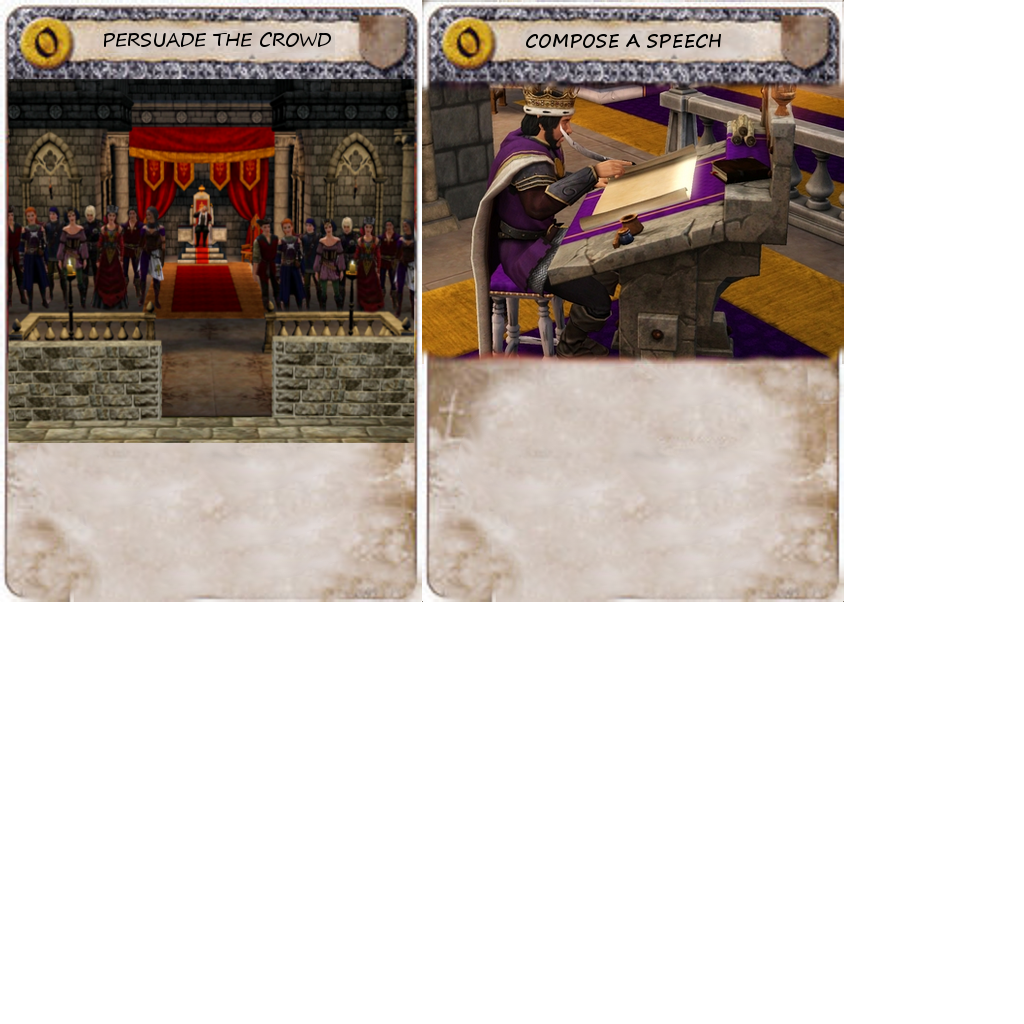
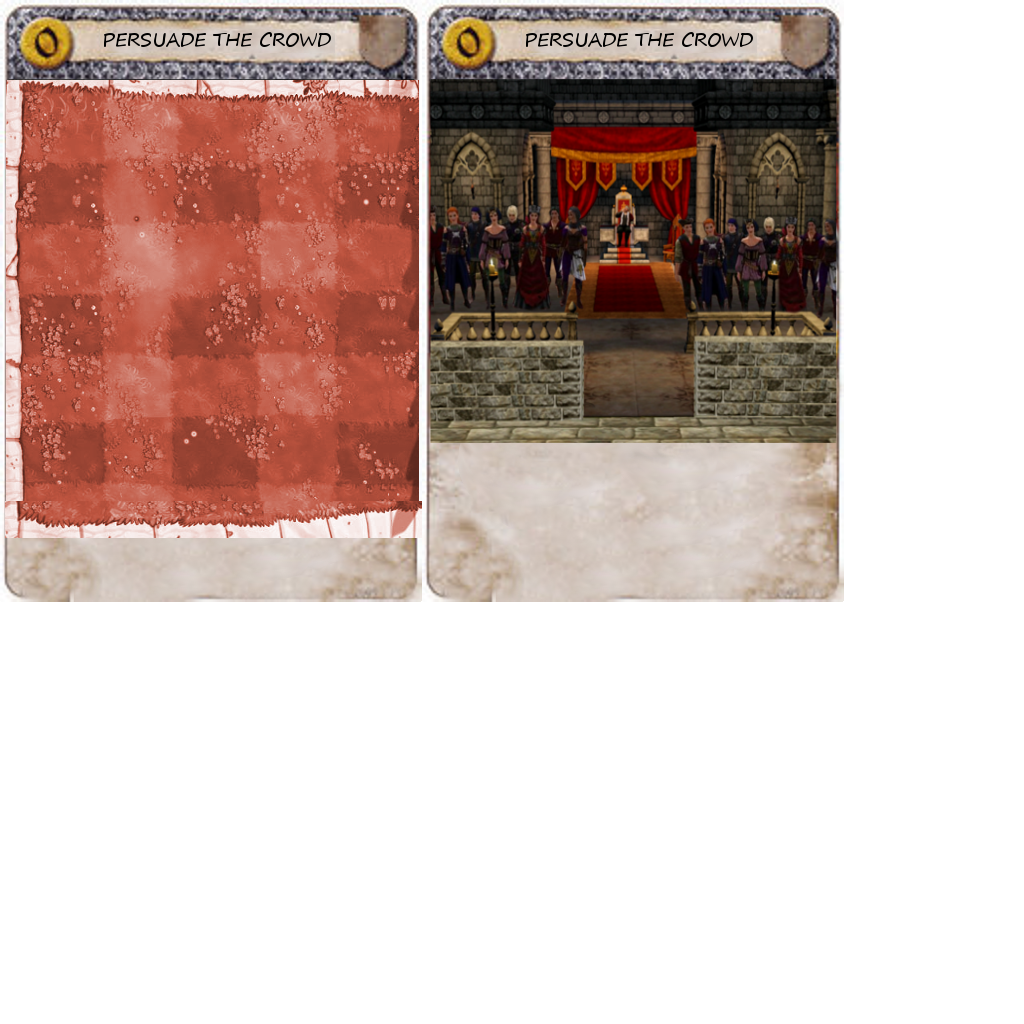
Implemented GossiperBehaviour class

diff --git a/core/src/com/realrules/game/demo/DemoGame.java b/core/src/com/realrules/game/demo/DemoGame.java
@@ -127,7 +127,8 @@ public class DemoGame extends ApplicationAdapter {
 		
 		btn.addListener(new ClickListener() {
 			 public void clicked(InputEvent event, float x, float y) {
-				 setDebateScreen();
+//				 setDebateScreen();
+				 setCrowdScreen();
 			 }
 		});
 	}
@@ -248,6 +249,15 @@ public class DemoGame extends ApplicationAdapter {
 					setToStage(scroll, 0, -60);
 			 }
 		});
+	}
+	
+	private void setCrowdScreen() {
+		
+		setToStage(getImage("CrowdScreen", "screens//screensPack"), 0, 0);
+		
+		new HeadSprite(Head.GOSSIPER, 10, 115, "sprites//gossiperFollowerPack.pack");
+		
+		
 	}
 	
 	private Actor getButton(String type) {
@@ -509,6 +519,10 @@ public class DemoGame extends ApplicationAdapter {
 		private float startingX;
 		private float startingY;
 		private Array<AtlasRegion> frames;
+		private TextureRegion currentFrame;
+		private float movementP = 0.1f;
+		private float rotateP = 0.3f;
+		private float argueSuccessP = 0.4f;
 		
 		public float getStartingX() {
 			return startingX;
@@ -518,14 +532,19 @@ public class DemoGame extends ApplicationAdapter {
 			return startingY;
 		}
 		
-		public HeadSprite(Head type, float x, float y, Array<AtlasRegion> frames) {
-			
-			frames = new TextureAtlas(Gdx.files.internal("sprites//gossiperHeadPack.pack")).getRegions();
+		public HeadSprite(Head type, float x, float y, String framesPath) {
+			super(new TextureAtlas(Gdx.files.internal(framesPath)).getRegions().get(0));
+			frames = new TextureAtlas(Gdx.files.internal(framesPath)).getRegions();
+			currentFrame = frames.get(0);
+			//Centre origin in frame for rotation;
+			this.setOrigin(this.currentFrame.getRegionWidth()/2, this.currentFrame.getRegionHeight()/2);
 			
 			startingX = x;
 			startingY = y;
 			
-			//TODO: Set behaviour based on type
+			if(type == type.GOSSIPER) {
+				behaviour = new GossiperBehaviour(this);
+			}
 			
 			setTouchAction();
 			
@@ -549,14 +568,14 @@ public class DemoGame extends ApplicationAdapter {
 		public void draw(Batch batch, float parentAlpha) {
 			super.draw(batch, parentAlpha);
 			
-			behaviour.onDraw();
+			behaviour.onDraw(batch, parentAlpha);
 		}
 
 		@Override
 		public void act(float delta) {
 			super.act(delta);
 			
-			behaviour.onAct();
+			behaviour.onAct(delta);
 		}
 		
 		
@@ -572,6 +591,9 @@ public class DemoGame extends ApplicationAdapter {
 		//Draw: Default 
 		
 		HeadSprite gossiper;
+		Random rand = new Random();
+		float stateLength = 1.0f;
+		float stateTime = stateLength;
 		
 		public GossiperBehaviour(HeadSprite gossiper) {
 			this.gossiper = gossiper;
@@ -580,18 +602,21 @@ public class DemoGame extends ApplicationAdapter {
 		}
 
 		@Override
-		public void onAct() {
+		public void onAct(float delta) {
 			
-			//Add a random move destination when previous is finished
-			if(gossiper.getActions().size == 0) {
-				setMoveToAction();
+			if(stateTime >= stateLength) {
+				stateTime = 0.0f;
+				setFrame();
 			}
-			
+			stateTime += delta;
 		}
 
 		@Override
-		public void onDraw() {
-			// TODO Auto-generated method stub
+		public void onDraw(Batch batch, float parentAlpha) {
+//			batch.draw(
+//					gossiper.currentFrame, 0, 0, gossiper.currentFrame.getRegionWidth()/2, gossiper.currentFrame.getRegionHeight()/2, 
+//					gossiper.currentFrame.getRegionWidth(), gossiper.currentFrame.getRegionHeight(), 0, 0,  gossiper.rotation
+//					);
 			
 		}
 
@@ -613,8 +638,21 @@ public class DemoGame extends ApplicationAdapter {
 		}
 		
 		//Implement frame setting
+		private void setFrame() {
+			
+			//Based on rotation probability
+			if(rand.nextFloat() > gossiper.rotateP) {
+				//Set direction
+				gossiper.currentFrame = gossiper.frames.get(rand.nextInt(2));
+				//Set angle
+				int angle = rand.nextInt(3);
+				gossiper.setRotation((float) (45 * angle));
+				
+				gossiper.setDrawable(new TextureRegionDrawable(new TextureRegion(gossiper.currentFrame)));
+			}
+			
+		}
 		
-		//Implement collision detection
 		
 	}
 	
@@ -625,13 +663,13 @@ public class DemoGame extends ApplicationAdapter {
 		}
 
 		@Override
-		public void onAct() {
+		public void onAct(float delta) {
 			// TODO Auto-generated method stub
 			
 		}
 
 		@Override
-		public void onDraw() {
+		public void onDraw(Batch batch, float parentAlpha) {
 			// TODO Auto-generated method stub
 			
 		}
@@ -657,13 +695,13 @@ public class DemoGame extends ApplicationAdapter {
 		}
 
 		@Override
-		public void onAct() {
+		public void onAct(float delta) {
 			// TODO Auto-generated method stub
 			
 		}
 
 		@Override
-		public void onDraw() {
+		public void onDraw(Batch batch, float parentAlpha) {
 			// TODO Auto-generated method stub
 			
 		}
@@ -685,10 +723,10 @@ public class DemoGame extends ApplicationAdapter {
 	public interface IHeadBehaviour {
 		
 		//Act behaviour
-		void onAct();
+		void onAct(float delta);
 		
 		//Draw behaviour
-		void onDraw();
+		void onDraw(Batch batch, float parentAlpha);
 		
 		//Touch behaviour
 		void onTouch();
